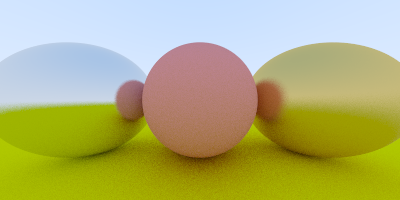
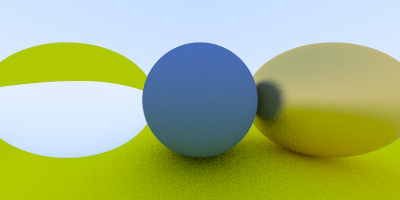
dielectric

diff --git a/rt.cpp b/rt.cpp
@@ -1,6 +1,7 @@
 
 
 #include "camera.h"
+#include "dielectric.h"
 #include "lambertian.h"
 #include "metal.h"
 #include "sphere.h"
@@ -10,7 +11,7 @@
 #include <stdio.h>
 
 #define STB_IMAGE_WRITE_IMPLEMENTATION
-#include "stb_image_write.h"
+#include <stb_image_write.h>
 
 using namespace r3;
 
@@ -34,25 +35,34 @@ struct TraceResult
 	Vec3f Color;
 };
 
-TraceResult TraceRay( const Ray& ray, Hitable* hitable )
+TraceResult TraceRay( const Vec3f& attenuation, const Ray& ray, Hitable* hitable )
 {
+	// if "fully" attenuated, give up
+	if ( attenuation.Dot( attenuation ) < 0.001 )
+	{
+		return TraceResult( Vec3f( 0, 0, 0 ) );
+	}
+
 	Hit hit;
-	if ( hitable->Hits( ray, 0.001, 10000, hit ) )
+	if ( hitable->Hits( ray, hit ) )
 	{
 		Ray scatter;
 		Vec3f atten;
 		if ( hit.mat->Scatter( ray, hit, atten, scatter ) )
 		{
-			return TraceResult( atten, TraceRay( scatter, hitable ) );
+			// cast a scattering ray, accumulating attenuation
+			return TraceRay( atten * attenuation, scatter, hitable );
 		}
 		else
 		{
+			// scatter failed, give up on ray
 			return TraceResult();
 		}
 	}
 	else
 	{
-		return TraceResult( EnvColor( ray.dir ) );
+		// hit the environment
+		return TraceResult( attenuation * EnvColor( ray.dir ) );
 	}
 }
 
@@ -73,21 +83,22 @@ int main( int argc, char** argv )
 
 	Vec3f origin( 0, 0, 0 );
 
-	Lambertian lamb_rose( Vec3f( 0.8f, 0.3f, 0.3f ) );
+	Lambertian lamb_blue( Vec3f( 0.1f, 0.2f, 0.5f ) );
 	Lambertian lamb_greenish( Vec3f( 0.8f, 0.8f, 0.0f ) );
 	Metal metal_gold( Vec3f( 0.8, 0.6, 0.2 ), 0.3 );
-	Metal metal_silver( Vec3f( 0.8, 0.8, 0.8 ), 0.1 );
+	// Metal metal_silver( Vec3f( 0.8, 0.8, 0.8 ), 0.1 );
+	Dielectric diel_yellow( 1.5f );
 
-	Sphere sphere( Vec3f( 0, 0, -1 ), 0.5, &lamb_rose );
+	Sphere blue_sphere( Vec3f( 0, 0, -1 ), 0.5, &lamb_blue );
 	Sphere ground_sphere( Vec3f( 0, -100.5, -1 ), 100, &lamb_greenish );
 	Sphere gold_sphere( Vec3f( 1, 0, -1 ), 0.5, &metal_gold );
-	Sphere silver_sphere( Vec3f( -1, 0, -1 ), 0.5, &metal_silver );
+	Sphere diel_yellow_sphere( Vec3f( -1, 0, -1 ), 0.5, &diel_yellow );
 
 	HitableCollection collection;
-	collection.hitables.push_back( &sphere );
+	collection.hitables.push_back( &blue_sphere );
 	collection.hitables.push_back( &ground_sphere );
 	collection.hitables.push_back( &gold_sphere );
-	collection.hitables.push_back( &silver_sphere );
+	collection.hitables.push_back( &diel_yellow_sphere );
 
 	Camera cam( 90, float( w ) / float( h ) );
 
@@ -110,7 +121,7 @@ int main( int argc, char** argv )
 			for ( int k = 0; k < samples; k++ )
 			{
 				Ray ray = cam.GetRay( uv + off[ k ] );
-				TraceResult res = TraceRay( ray, &collection );
+				TraceResult res = TraceRay( Vec3f( 1, 1, 1 ), ray, &collection );
 				if ( res.Valid )
 				{
 					s++;

diff --git a/dielectric.h b/dielectric.h
@@ -1,0 +1,81 @@
+#pragma once
+
+#include "material.h"
+#include <random>
+
+struct Dielectric : public Material
+{
+	typedef r3::Vec3f V;
+
+	Dielectric( float index_of_refraction ) : refr_index( index_of_refraction ) {}
+
+	static inline V Reflect( const V& incident, const V& normal )
+	{
+		return incident - 2 * incident.Dot( normal ) * normal;
+	}
+
+	static inline bool Refract( const V& incid, const V& normal, float nr, V& refracted )
+	{
+		V incident = incid.Normalized();
+		float dt = incident.Dot( normal );
+		float discriminant = 1.0f - nr * nr * ( 1 - dt * dt );
+		if ( discriminant > 0.0f )
+		{
+			refracted = nr * ( incident - dt * normal ) - normal * sqrt( discriminant );
+			return true;
+		}
+		else
+		{
+			return false;
+		}
+	}
+
+	bool Scatter( const Ray& incident, const Hit& hit, V& attenuation, Ray& scattered ) const
+	{
+		bool outside = incident.dir.Dot( hit.n ) < 0;
+		V normal = outside ? hit.n : -hit.n;
+		float index_ratio = outside ? 1.0f / refr_index : refr_index;
+		V refr;
+		if ( Refract( incident.dir, normal, index_ratio, refr ) )
+		{
+			scattered = Ray( hit.p, refr );
+			attenuation = V( 1, 1, 1 );
+		}
+		else
+		{
+			V refl = Reflect( incident.dir.Normalized(), normal );
+			if ( refl.Dot( normal ) > 0 )
+			{
+				scattered = Ray( hit.p, refl );
+				attenuation = V( 1, 0, 0 );
+			}
+			else
+			{
+				return false;
+			}
+		}
+		return true;
+	}
+
+	struct RandomPointInUnitSphere
+	{
+		RandomPointInUnitSphere() : gen( 0 ), dis( -1.0, 1.0 ) {}
+
+		V GetPoint()
+		{
+			V p( dis( gen ), dis( gen ), dis( gen ) );
+			while ( p.LengthSquared() > 1.0f )
+			{
+				p = V( dis( gen ), dis( gen ), dis( gen ) );
+			}
+			return p;
+		}
+
+		std::mt19937 gen;
+		std::uniform_real_distribution<> dis;
+	};
+
+	mutable RandomPointInUnitSphere rpius;
+
+	float refr_index;
+};

diff --git a/sphere.h b/sphere.h
@@ -8,14 +8,14 @@ struct Sphere : public Hitable
 	typedef r3::Vec3f V;
 	Sphere( const V& center, const float radius, Material* material ) : c( center ), r( radius ), mat( material ) {}
 
-	bool Hits( const Ray& ray, float t_min, float t_max, Hit& hit )
+	bool Hits( const Ray& ray, Hit& hit )
 	{
 		Quadraticf quadr( Dot( ray.dir, ray.dir ), 2 * Dot( ray.dir, ray.o - c ), Dot( ray.o - c, ray.o - c ) - r * r );
 		float discr = quadr.Discriminant();
 		if ( discr >= 0 )
 		{
 			float t = quadr.ClosestForwardSolution( discr );
-			if ( t < 0 || t < t_min || t > t_max )
+			if ( t < 0 )
 			{
 				return false;
 			}

diff --git a/hitable.h b/hitable.h
@@ -18,21 +18,21 @@ struct Hit
 
 struct Hitable
 {
-	virtual bool Hits( const Ray& ray, float t_min, float t_max, Hit& hit ) = 0;
+	virtual bool Hits( const Ray& ray, Hit& hit ) = 0;
 };
 
 struct HitableCollection : public Hitable
 {
 	std::vector<Hitable*> hitables;
 
-	bool Hits( const Ray& ray, float t_min, float t_max, Hit& hit )
+	bool Hits( const Ray& ray, Hit& hit )
 	{
 		bool has_hit = false;
 		Hit closest_hit;
 		for ( auto hitable : hitables )
 		{
 			Hit h;
-			if ( hitable->Hits( ray, t_min, t_max, h ) )
+			if ( hitable->Hits( ray, h ) )
 			{
 				if ( has_hit == false )
 				{

diff --git a/ray.h b/ray.h
@@ -6,7 +6,7 @@ struct Ray
 {
 	typedef r3::Vec3f V;
 	Ray() {}
-	Ray( const V& origin, const V& direction ) : o( origin ), dir( direction ) {}
+	Ray( const V& origin, const V& direction, float fwd = 0.001f ) : o( origin + direction * fwd ), dir( direction ) {}
 
 	V At( float t ) const
 	{

diff --git a/camera.h b/camera.h
@@ -2,7 +2,6 @@
 
 #include "ray.h"
 #include <cmath>
-#include <stdio.h>
 
 struct Camera
 {
